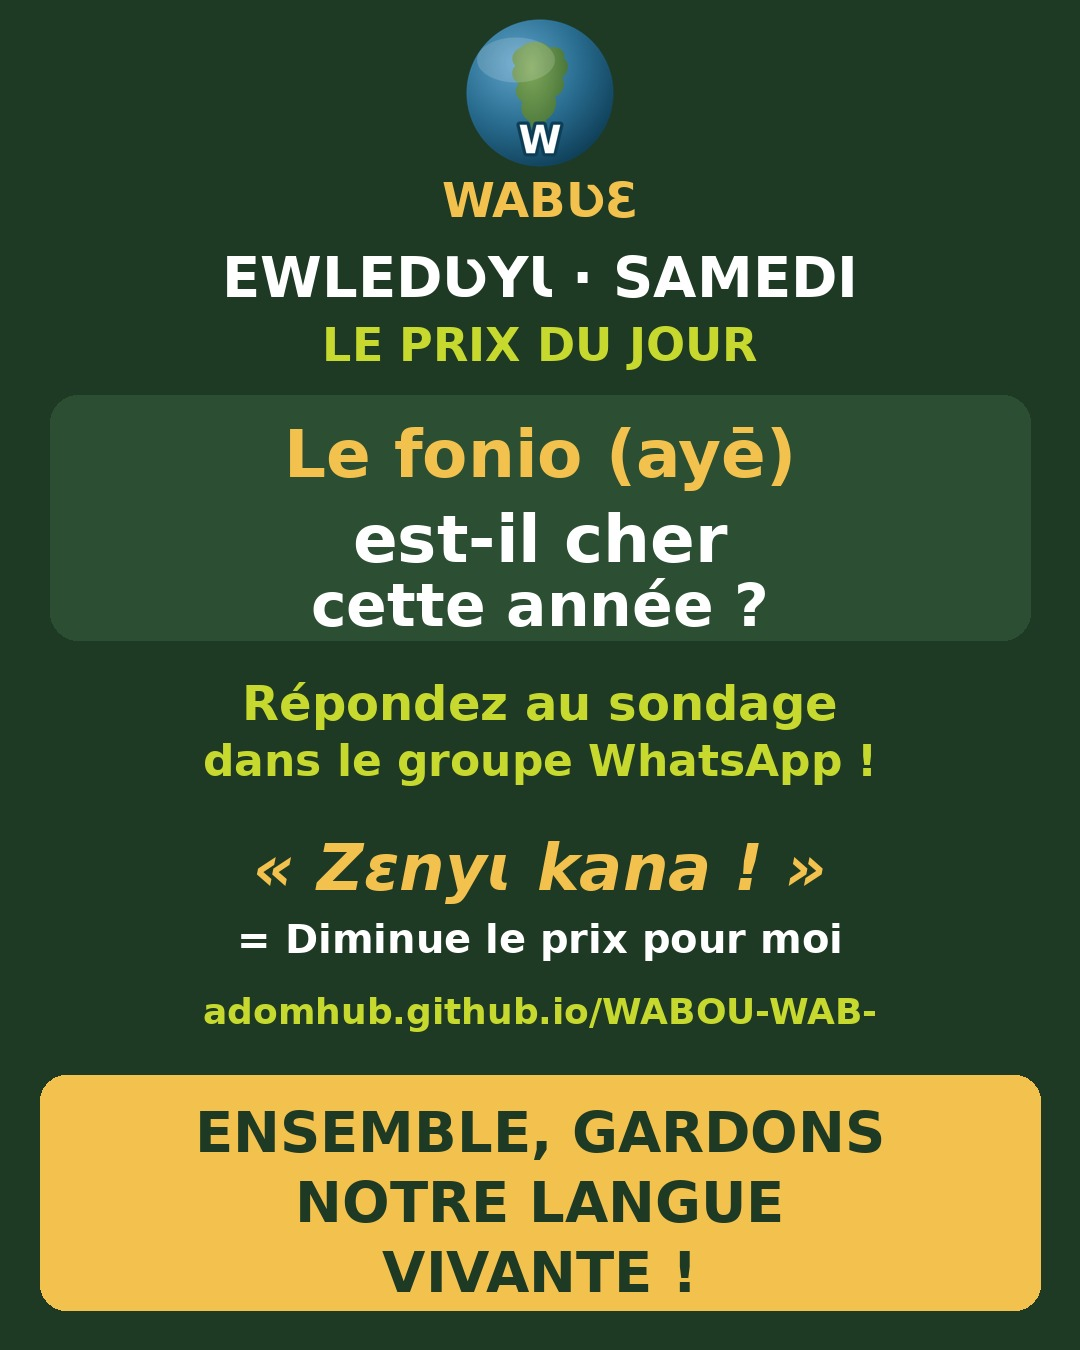
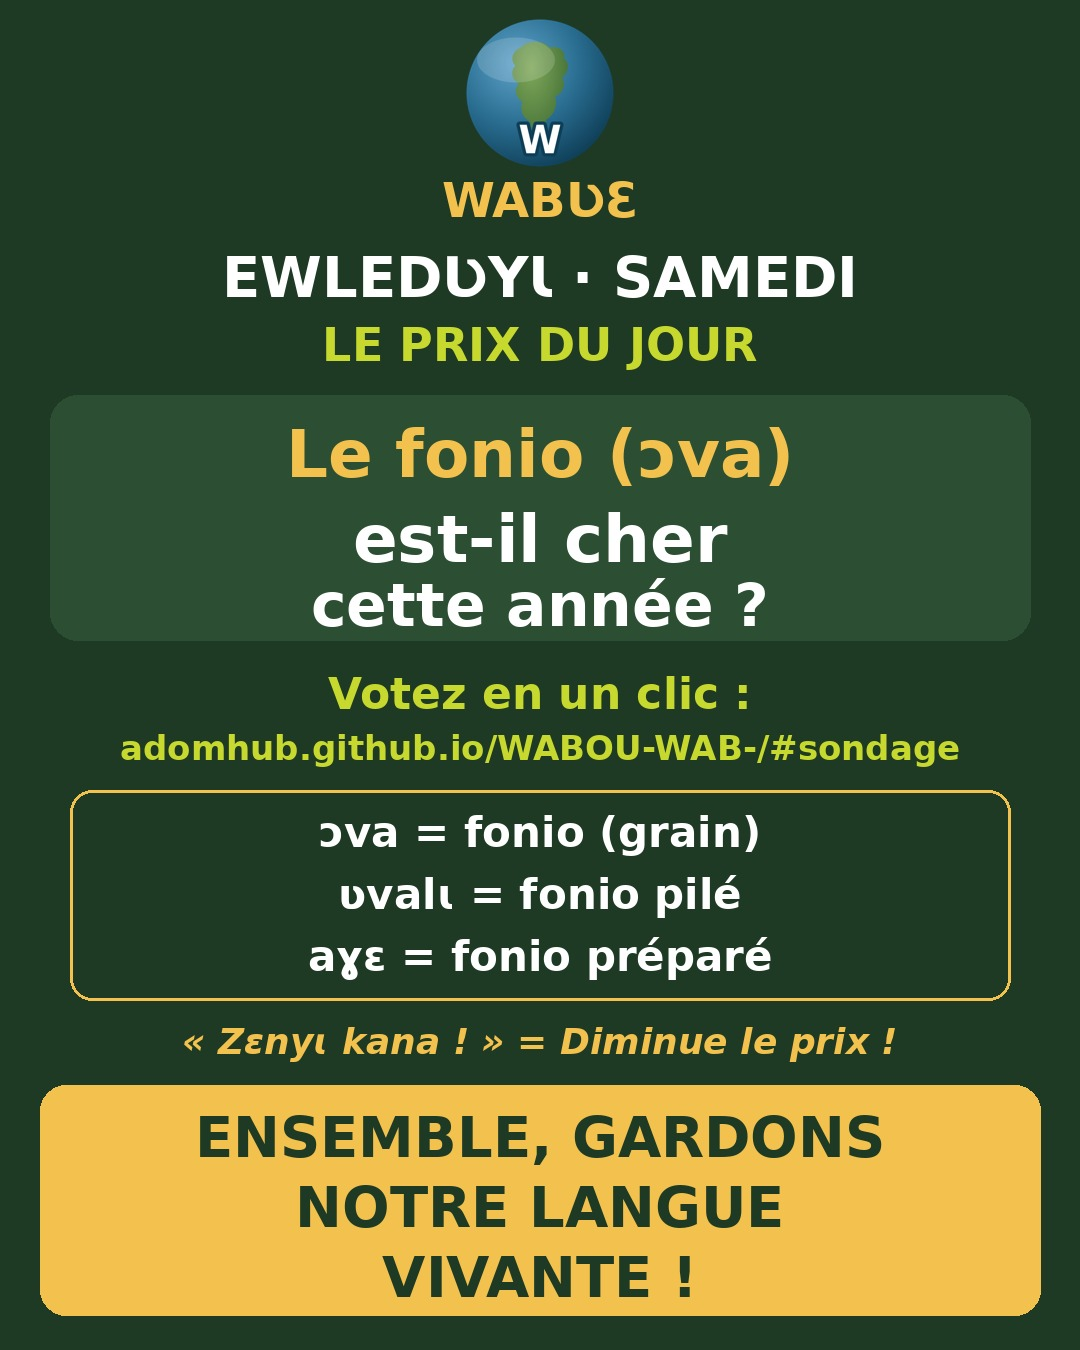
Fonio : ɔva / ʋvalɩ / aɣɛ (donnés par Alexi) dans le sondage et l'affiche
Claude-Session: https://claude.ai/code/session_01972thQLt3neowtBqv9hNmB

diff --git a/sw.js b/sw.js
@@ -2,7 +2,7 @@
 // 1) Garde l'app en cache pour un fonctionnement hors-ligne (réseau d'abord, cache en secours)
 // 2) Reçoit les notifications push et ouvre l'app quand on touche la notification
 // Alexi : change le numéro de CACHE_NAME à chaque nouvelle version pour forcer la mise à jour.
-const CACHE_NAME = 'abuesa-v70';
+const CACHE_NAME = 'abuesa-v71';
 // v4.86 : les photos venant de Supabase sont gardées sur le téléphone (pour ne pas les retélécharger à chaque visite)
 const MEDIA_CACHE = 'abuesa-media-v1';
 const MEDIA_MAX = 150;

diff --git a/index.html b/index.html
@@ -10420,7 +10420,7 @@ var FEDAPAY_PAGE = '';
   var SONDAGE = {
     id: 'fonio-2026-11-28',
     titre: '🌾 Sondage du samedi',
-    q: 'Le fonio (ayē) est-il cher cette année ?',
+    q: 'Le fonio (ɔva) est-il cher cette année ?',
     choix: ['💸 Il est cher', '👌 Le prix est normal', '🎉 Moins cher que l\'an dernier', '🤷 Je ne sais pas']
   };
   var CLE = 'wabue_sondage_' + SONDAGE.id;
